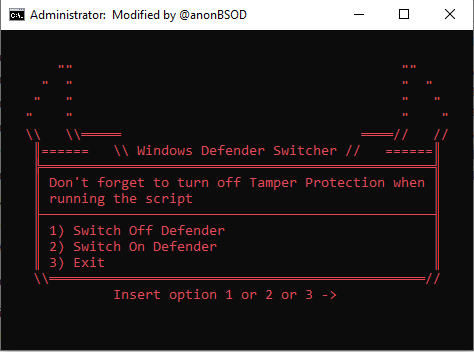
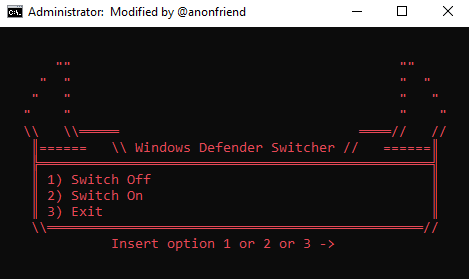
update

diff --git a/README.md b/README.md
@@ -6,12 +6,16 @@ Windows Defender Switcher
 
 Support: Windows 10 & 11
 
+New Feature
+- Auto Switch ON/OFF Network Interface Connection
+- Auto Switch ON Smartscreen Edge Browser
+- Auto Bypass Tamper Protection
+
+=================================
+
 DISABLE
 
 Step:
-- Disable Internet
-- Open Windows Defender
-- Disable Realtime & Tamper Protection
 - Right click main.bat
 - Click Run as Administrator
 - Select menu 1
@@ -22,10 +26,6 @@ Step:
 ENABLE
 
 Step:
-- Disable Internet
 - Right click main.bat
 - Click Run as Administrator
 - Select menu 2
-- Open Windows Defender
-- Enable Realtime & Tamper Protection
-- Turn on the Internet
